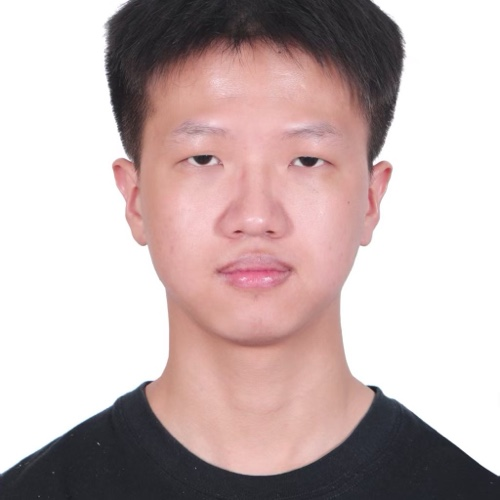
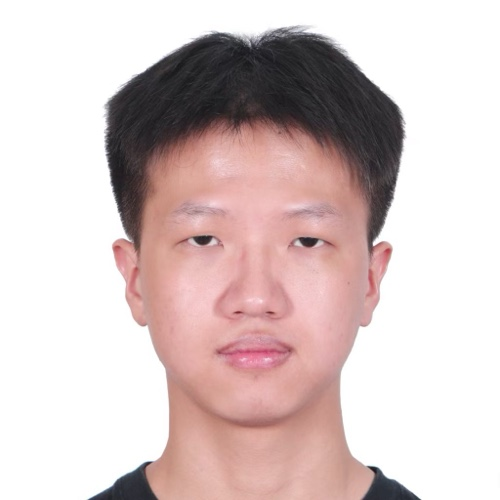
Refine profile header and contact links

diff --git a/index.html b/index.html
@@ -27,6 +27,7 @@
       "@type": "Person",
       "name": "Shilin Ma",
       "url": "https://msssl.github.io/",
+      "email": "msl21@mails.tsinghua.edu.cn",
       "affiliation": {"@type": "CollegeOrUniversity", "name": "Tsinghua University"},
       "alumniOf": {"@type": "CollegeOrUniversity", "name": "Tsinghua University"},
       "sameAs": [
@@ -59,13 +60,13 @@
                   </p>
                   <p>
                     My research focuses on <strong>physical agents</strong> and
-                    <strong>long-horizon embodied tasks</strong>, with an emphasis on multimodal
-                    perception, planning, and closed-loop control.
+                    <strong>long-horizon embodied tasks</strong>, with an emphasis on agent memory,
+                    planning, and closed-loop control.
                   </p>
                   <p class="profile-links">
+                    <a href="mailto:msl21@mails.tsinghua.edu.cn">Email</a>&nbsp;&nbsp;/&nbsp;&nbsp;
                     <a href="https://github.com/msssl">GitHub</a>&nbsp;&nbsp;/&nbsp;&nbsp;
-                    <a href="https://openreview.net/profile?id=~Shilin_Ma2">OpenReview</a>&nbsp;&nbsp;/&nbsp;&nbsp;
-                    <a href="https://msssl.github.io/">Home Page</a>
+                    <a href="https://openreview.net/profile?id=~Shilin_Ma2">OpenReview</a>
                   </p>
                 </td>
                 <td class="hero-image">
